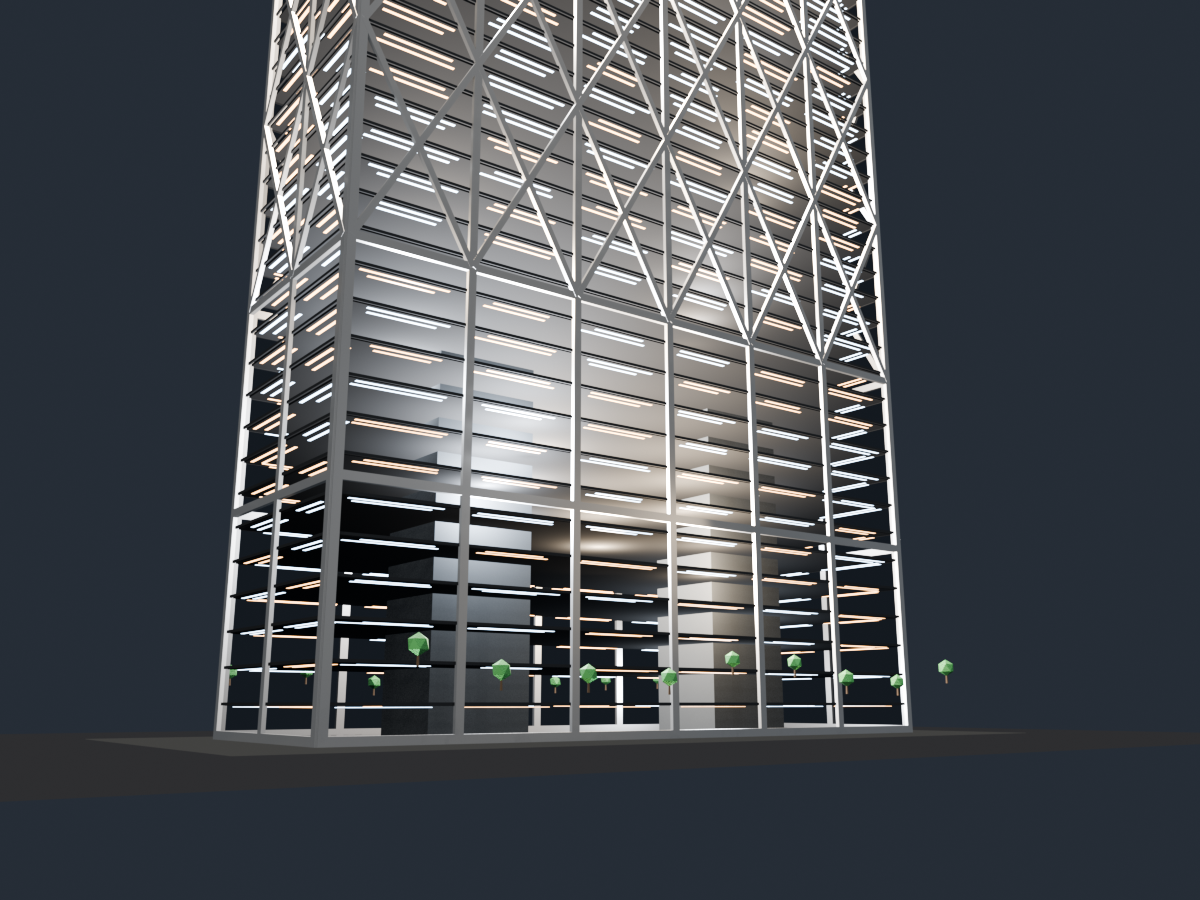
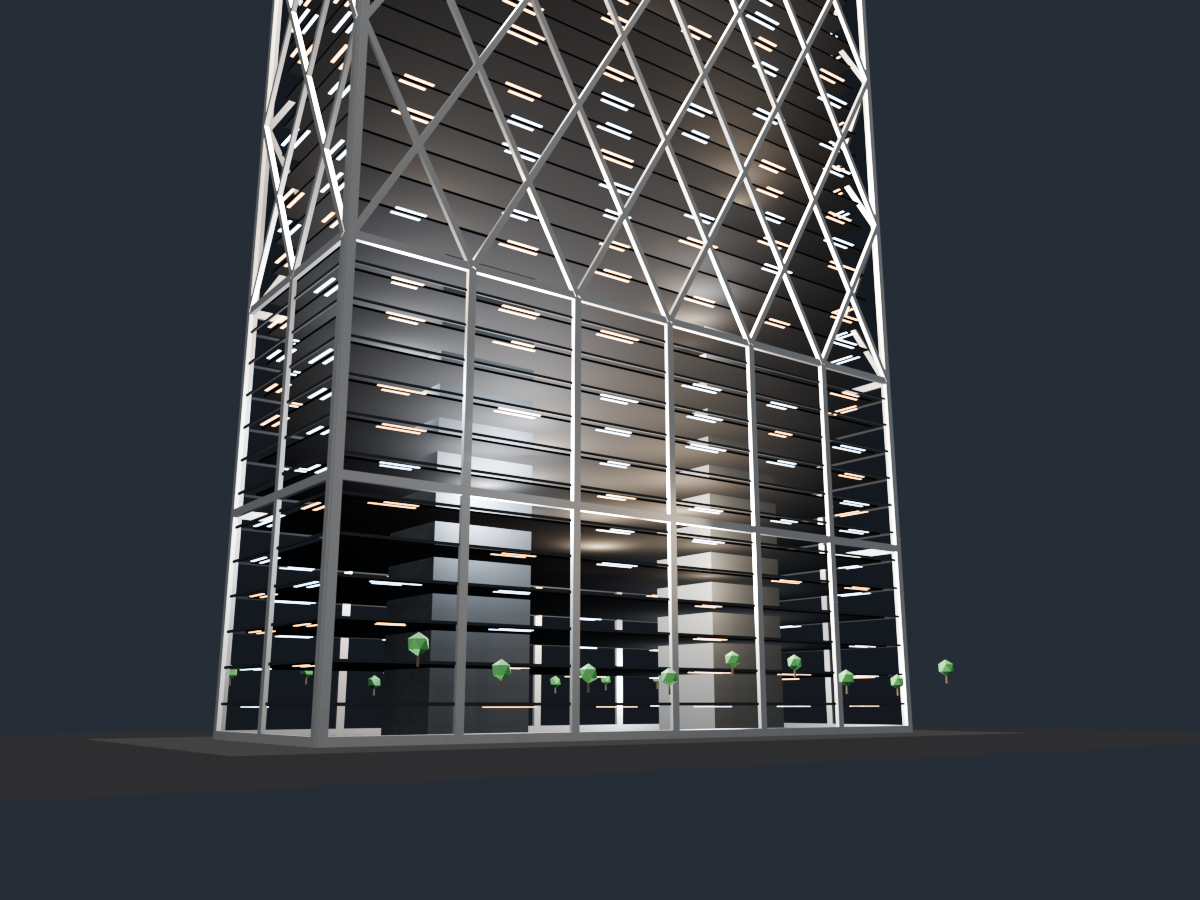
feat: make the Stack 3 diagonal zone pure diagonals
Above the framed base the lattice now carries nothing but the X grid and the
two corner posts: intermediate verticals stop at the base, the slab-edge bands
are gone from this zone, and the interior lights there become short scattered
dashes instead of lines. Also fixes an UnboundLocalError that had silently
kept the previous edit from reaching the file.

Changed region(s): [[0.185, 0.0, 0.74, 0.7778], [0.2775, 0.7778, 0.3392, 0.8089], [0.5858, 0.7778, 0.6167, 0.8089]]

diff --git a/build_stack3.py b/build_stack3.py
@@ -323,7 +323,7 @@ def build_materials(night=False):
         "black": materials.make_concrete("Stack3_Black", color=(0.020, 0.021, 0.024)),
         "slab": materials.make_concrete("Stack3_Slab", color=(0.34, 0.35, 0.35)),
         "slab_dark": materials.make_concrete("Stack3_Slab_Dark",
-                                             color=(0.040, 0.042, 0.045)),
+                                             color=(0.008, 0.008, 0.009)),
         "panel_dark": materials.make_wall("Stack3_Panel_Dark",
                                           color=(0.085, 0.088, 0.092)),
         "core": materials.make_concrete("Stack3_Core", color=(0.10, 0.11, 0.12)),
@@ -388,7 +388,7 @@ def build_floors(mats, cols):
     p = Part("Structure_Floors", mats["slab_dark"], cols["Structure"])
     for z in floor_levels():
         if z <= ROOF - 0.6:
-            p.box((0, 0, z - 0.175), (WIDTH - 1.4, DEPTH - 1.4, 0.35))
+            p.box((0, 0, z - 0.175), (WIDTH - 4.8, DEPTH - 4.8, 0.35))
     floors = p.finish()
     if floors is not None:
         # Floors neither take light nor block it, so the interior lights carry
@@ -443,6 +443,7 @@ def build_lattice(mats, cols, rng):
     z0, z1 = BAND["Lattice"]
     col = cols["Lattice"]
     bays, tiers = 6, 5
+    inset = 0.62
     tier_h = (z1 - z0) / tiers
 
     glass = Part("Lattice_Glass", mats["glass_deep"], col)
@@ -458,21 +459,24 @@ def build_lattice(mats, cols, rng):
     band = Part("Lattice_Slab_Edges", mats["slate"], col)
     for face in FACES:
         half = face_half(face)
-        for z in [0.0] + [lev for lev in floor_levels() if lev < z1 - 0.5]:
+        base_top = z0 + inset + 2 * ((z1 - z0) - 2 * inset) / tiers
+        for z in [0.0] + [lev for lev in floor_levels()
+                          if lev < base_top - 0.5]:
             lo = 0.0 if z <= 0.0 else z - 0.32
             hi = 0.40 if z <= 0.0 else z + 0.08
             band.face_box(face, -half, half, lo, hi, -0.34, 0.26)
     band.finish()
 
-    inset = 0.62
     frame = Part("Lattice_Frame", mats["silver"], col)
     for face in FACES:
         half = face_half(face)
         hw = half - inset
         n = bays if face in LONG_FACES else 2
+        base_top = z0 + inset + 2 * ((z1 - z0) - 2 * inset) / tiers
         for i in range(n + 1):
             u = -hw + i * 2 * hw / n
-            frame.face_box(face, u - inset, u + inset, z0, z1, -0.34, 0.60)
+            top = z1 if i in (0, n) else base_top
+            frame.face_box(face, u - inset, u + inset, z0, top, -0.34, 0.60)
     frame.finish()
 
     brace = Part("Lattice_Braces", mats["silver"], col)
@@ -519,11 +523,13 @@ def build_lattice(mats, cols, rng):
         for z in floor_levels():
             if 1.0 < z <= z1:
                 for i in range(n):
+                    if rng.random() < 0.35:      # dark rooms keep it from
+                        continue                 # reading as a line of light
                     u0 = -hw + i * du
                     part = cool if rng.random() < 0.5 else warm
                     for depth in (1.2, 2.8):
                         ceiling_strip(part, face, u0 + 0.8, u0 + du - 0.8,
-                                      z - 0.52, depth, rng)
+                                      z - 0.52, depth, rng, frac=(0.22, 0.45))
     cool.finish()
     warm.finish()
 
@@ -663,9 +669,9 @@ def storey_lights(part, face, half, z, inset=2.0, depths=(1.5,), width=0.50):
             part.box((p.x, p.y, z), (width, span, 0.07))
 
 
-def ceiling_strip(part, face, u0, u1, z, depth, rng):
+def ceiling_strip(part, face, u0, u1, z, depth, rng, frac=(0.5, 0.85)):
     """A thin ceiling fixture inside one room, seen through the glazing."""
-    length = (u1 - u0) * rng.uniform(0.5, 0.85)
+    length = (u1 - u0) * rng.uniform(*frac)
     cu = (u0 + u1) / 2 + rng.uniform(-0.4, 0.4)
     p = fp(face, cu, z, -depth)
     if face in LONG_FACES:

diff --git a/README.md b/README.md
@@ -246,7 +246,8 @@ module and run 28 floors.
 - **Lattice, 0-158 m.** The whole lower block is one facade: an external frame six
   bays wide by five tiers tall. The bottom two tiers are framed cells - six big
   glazed squares per row, closed by thick members, no X - and the upper three
-  tiers carry an X brace in every cell. The frame carries vertical posts only: no added horizontal
+  tiers are diagonal only: an X in every cell, no intermediate verticals and no
+  horizontal bands, just the corner posts and the diamond grid. The frame carries vertical posts only: no added horizontal
   band, the floor line is the dark slab edge itself; every floor plate in the
   model is near-black. Behind it is one dark glass skin with no visible pane
   joints at all - no mullions between the panes. Every floor, here and in the
